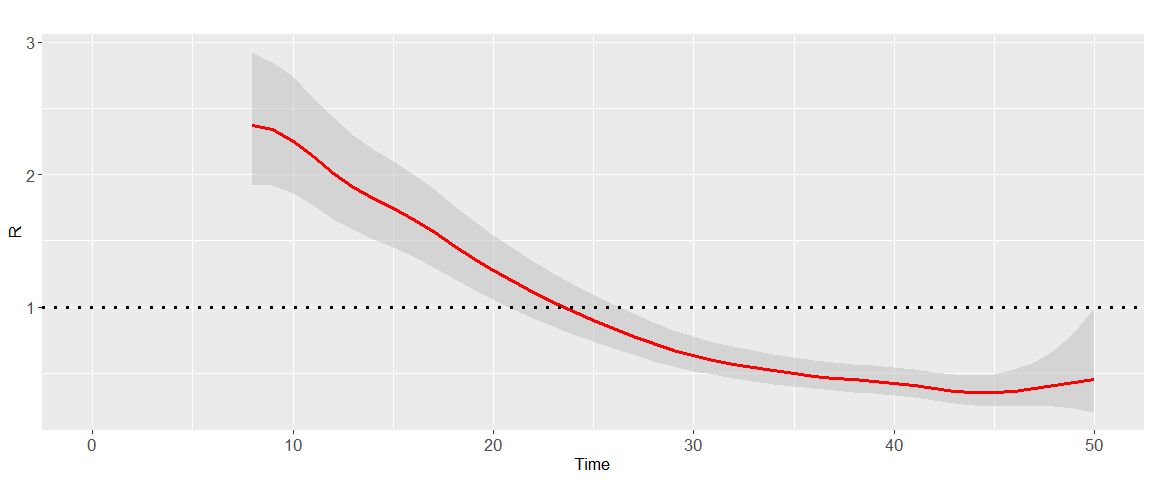
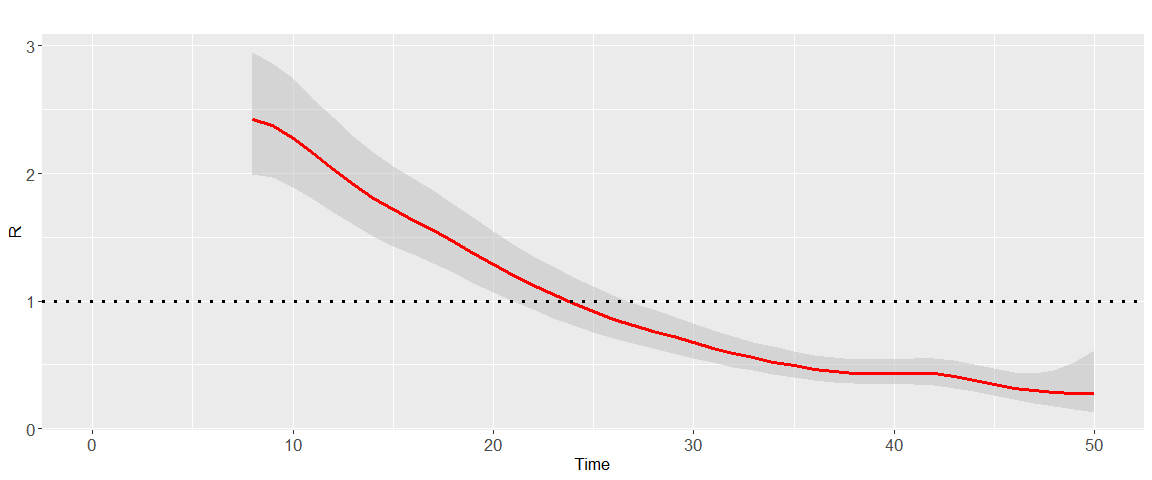
EpiLPS smoothing

diff --git a/README.md b/README.md
@@ -5,13 +5,15 @@ Oswaldo Gressani
 
 <!-- Introduce badges -->
 
-![Version](https://img.shields.io/badge/Version-0.1.5-lightgrey)
+![Version](https://img.shields.io/badge/Version-1.0.1-lightgrey)
 ![Languages](https://img.shields.io/badge/Languages-R%2C%20C%2B%2B-informational)
 ![Lifecycle](https://img.shields.io/badge/lifecycle-experimental-yellow)
+![CodeSize](https://img.shields.io/github/languages/code-size/oswaldogressani/EpiLPS?color=orange&label=Code%20size&style=plastic)
 
 ## Aim and scope
 
-EpiLPS is the acronym for **Epi**demiological modeling (tool) with
+EpiLPS <span style="color: blue;"> (Gressani et al. 2021)</span>, is the
+acronym for **Epi**demiological modeling (tool) with
 **L**aplacian-**P**-**S**plines. It proposes a new Bayesian methodology
 for estimating the instantaneous reproduction number *R*(*t*), i.e. the
 average number of secondary cases generated by infectious agents at time
@@ -123,9 +125,10 @@ The simulated incidence count data can be accessed by typing:
 simepi$y
 ```
 
-    ##  [1]  20   4  17  25  23  46  67  77 104 164 195 242 281 377 462 534 634 658 744
-    ## [20] 821 806 837 807 785 742 678 598 543 416 383 308 242 196 159 127  89  68  53
-    ## [39]  42  30  24  19   7  10   2   5   4   1   2   2
+    ##  [1]   25    6   26   35   48   58   99  127  180  240  280  412  481  581  666
+    ## [16]  837  952 1103 1140 1217 1293 1294 1294 1253 1188 1062  965  871  802  667
+    ## [31]  517  423  360  283  222  142  128   92   65   49   32   40   23   12   10
+    ## [46]    9    2    3    1    2
 
 The `epilps()` routine can be used to fit the epidemic data. By default,
 the LPSMAP approach is used with 30 B-splines in the interval \[1; 50\]
@@ -138,9 +141,9 @@ epifit_LPSMAP <- epilps(incidence = simepi$y, serial_interval = si)
 
     ## Inference method chosen: LPSMAP. 
     ## Total number of days: 50. 
-    ## Mean R(t) discarding first 7 days: 0.97.
-    ## Mean 95% CI of R(t) discarding first 7 days: (0.783,1.211) 
-    ## Elapsed real time (wall clock time): 0.18 seconds.
+    ## Mean R(t) discarding first 7 days: 0.966.
+    ## Mean 95% CI of R(t) discarding first 7 days: (0.789,1.188) 
+    ## Elapsed real time (wall clock time): 0.15 seconds.
 
 ``` r
 plot(epifit_LPSMAP)
@@ -170,18 +173,18 @@ obtained with LPSMAP and the associated 95% credible interval can be
 obtained by typing:
 
 ``` r
-knitr::kable(epifit_LPSMAP$epifit[8:14,1:3])
+knitr::kable(epifit_LPSMAP$epifit[8:14,2:4])
 ```
 
 |     | R\_estim | R95CI\_low | R95CI\_up |
 |:----|---------:|-----------:|----------:|
-| 8   | 2.371290 |   1.924554 |  2.921724 |
-| 9   | 2.339011 |   1.920273 |  2.849058 |
-| 10  | 2.253371 |   1.854570 |  2.737928 |
-| 11  | 2.134743 |   1.769101 |  2.575958 |
-| 12  | 2.012658 |   1.663449 |  2.435176 |
-| 13  | 1.907002 |   1.584243 |  2.295516 |
-| 14  | 1.820547 |   1.510852 |  2.193724 |
+| 8   | 2.424164 |   1.993297 |  2.948165 |
+| 9   | 2.374009 |   1.968241 |  2.863429 |
+| 10  | 2.274928 |   1.886469 |  2.743378 |
+| 11  | 2.154359 |   1.799058 |  2.579829 |
+| 12  | 2.030099 |   1.690995 |  2.437206 |
+| 13  | 1.911840 |   1.597277 |  2.288353 |
+| 14  | 1.806181 |   1.504370 |  2.168543 |
 
 A smooth estimate of the epidemic curve can be obtained with the code
 below. The option `epicol` controls the color of the curve and
@@ -216,13 +219,13 @@ inciLUX <- Luxembourg$hosp[75:649]
 
 # Italy
 Italy <- covid19(country = "ITA", level = 1, verbose = FALSE)
-dateITA <- Italy$date[75:649]
-inciITA <- Italy$hosp[75:649]
+dateITA <- Italy$date[42:616]
+inciITA <- Italy$hosp[42:616]
 
 # Canada
 Canada <- covid19(country = "CAN", level = 1, verbose = FALSE)
-dateCAN <- Canada$date[75:649]
-inciCAN <- Canada$hosp[75:649]
+dateCAN <- Canada$date[71:645]
+inciCAN <- Canada$hosp[71:645]
 
 # Japan
 Japan<- covid19(country = "JPN", level = 1, verbose = FALSE)
@@ -256,12 +259,12 @@ routine can be used to simulate epidemic outbreaks under four different
 scenarios. Each scenario has a different *R*(*t*) curve to be compared
 with the estimated trajectories fitted by EpiLPS. For comparative
 reasons, the trajectories of EpiEstim (with a weekly sliding window) are
-also shown. The code below simulates 100 epidemic outbreaks with a data
+also shown. The code below simulates 25 epidemic outbreaks with a data
 generating process following scenario 3 and a given serial interval
 distribution. A seed can also be specified for reproducibility.
 
 ``` r
-simexample <- perfcheck(S = 50, method = "LPSMALA",
+simexample <- perfcheck(S = 25, method = "LPSMALA",
                         serial_interval = c(0.2, 0.4, 0.2, 0.1, 0.1),
                         scenario = 3, ci_level = 0.95,  seed = 1234,
                         themetype = "gray")
@@ -269,22 +272,22 @@ simexample <- perfcheck(S = 50, method = "LPSMALA",
 
 ![](README_files/figure-gfm/unnamed-chunk-1-1.png)<!-- -->
 
-    ## Comparing LPSMALA vs EpiEstim in S=50 replications (epidemic T=50 days). 
+    ## Comparing LPSMALA vs EpiEstim in S=25 replications (epidemic T=50 days). 
     ## Mean Bias on days 8-50:
-    ## -- EpiLPS mean Bias: -0.00067
-    ## -- EpiEstim mean Bias: 0.04601
+    ## -- EpiLPS mean Bias: -0.00206
+    ## -- EpiEstim mean Bias: 0.04532
     ## Mean MSE on days 8-50:
-    ## -- EpiLPS mean MSE:   0.00467
-    ## -- EpiEstim mean MSE: 0.11194
+    ## -- EpiLPS mean MSE:   0.0052
+    ## -- EpiEstim mean MSE: 0.11407
     ## Mean credible interval coverage on days 8-50 (nominal level: 95 %):
-    ## -- EpiLPS mean coverage:   95.5814
-    ## -- EpiEstim mean coverage: 13.02326
+    ## -- EpiLPS mean coverage:   94.51163
+    ## -- EpiEstim mean coverage: 13.2093
     ## -- EpiLPS mean CI width: 0.22
     ## -- EpiEstim mean CI width: 0.18
 
 ## Package version
 
-This is version 0.1.5 (2021-10-31) - “EpiLPS is born”.
+This is version 1.0.1 (2021-12-08) - “EpiLPS smoothing”.
 
 ## Acknowledgments
 
@@ -292,6 +295,11 @@ This project is funded by the European Union’s Research and Innovation
 Action under the H2020 work programme, EpiPose (grant number 101003688).
 
 ## References
+
+Gressani, O., Wallinga, J., Althaus, C., Hens, N. and Faes, C. (2021).
+EpiLPS: a fast and flexible Bayesian tool for near real-time estimation
+of the time-varying reproduction number. *MedRxiv preprint*,
+<https://doi.org/10.1101/2021.12.02.21267189>
 
 White, L. F., Moser, C. B., Thompson, R. N., & Pagano, M. (2021).
 Statistical estimation of the reproductive number from case notification

diff --git a/NEWS.md b/NEWS.md
@@ -4,4 +4,12 @@
 
 * **2021-10-31:** Release of first version on Github. Version name: "EpiLPS is born".
 
+### Version 1.0.1 ###
+
+* **2021-12-08:** 
+
+* Version name: "EpiLPS smoothing"
+* The epilps routine can now be fitted to count data containing NAs.
+* Possibility to add dates to the *epilps()* routine.
+
 
